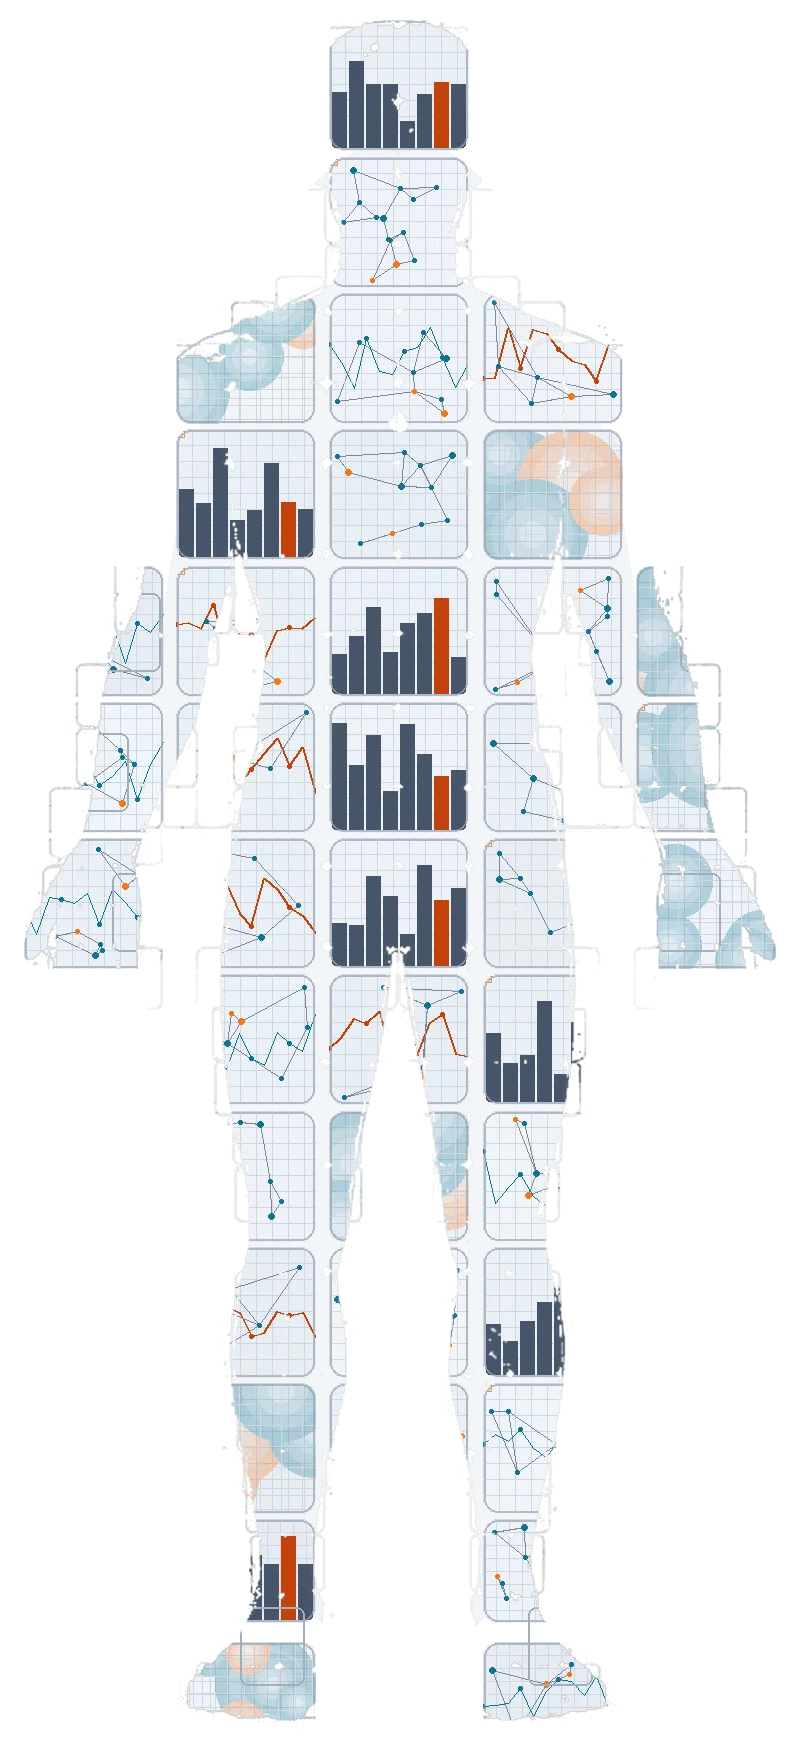
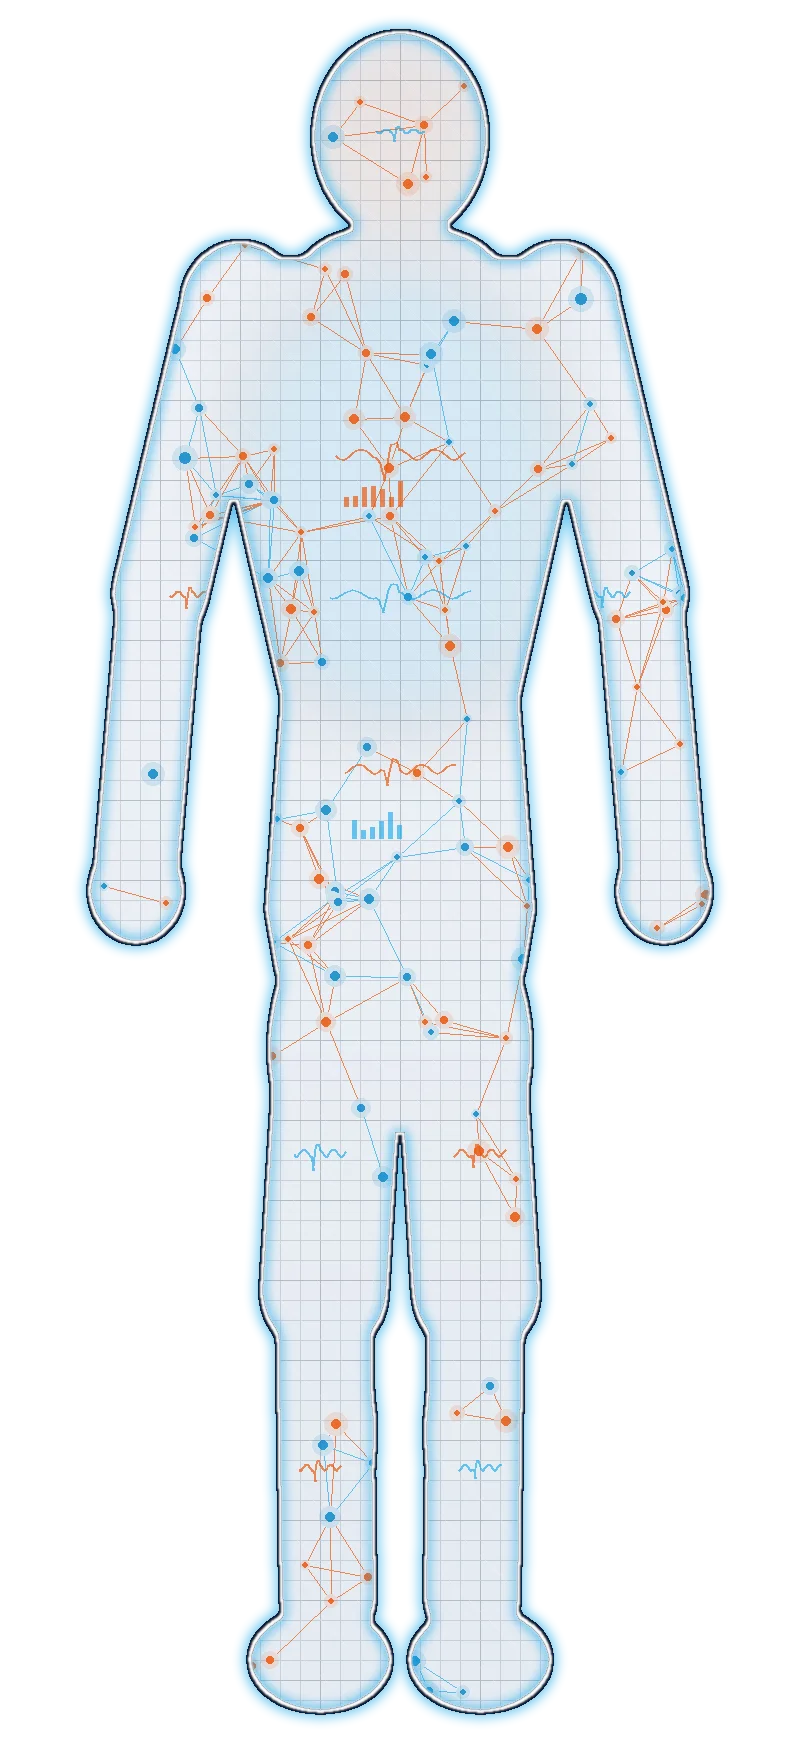
Make HDM figure a clear human body silhouette with data-viz fill.
Replace the tile-mosaic asset with an anatomical outline filled by grid/nodes/graphs, and shrink category cubes to translucent hotspots so the body reads at a glance.

Changed region(s): [[0.0312, 0.0, 0.9688, 0.9891]]

diff --git a/src/components/home/humanDataModel/HumanSilhouette.tsx b/src/components/home/humanDataModel/HumanSilhouette.tsx
@@ -38,8 +38,11 @@ function hexToRgba(hex: string, alpha: number): string {
   return `rgba(${r},${g},${b},${alpha})`;
 }
 
-/** +40% figure and category cubes vs previous layout. */
-const SCALE = 1.4;
+/**
+ * Hotspot size relative to the body-cube grid cell.
+ * Keep well below 1 so the WebP silhouette (head/torso/limbs) stays the readable figure.
+ */
+const SCALE = 0.72;
 
 /** Catalog order 01–10 left, 11–20 right. */
 const LEFT_IDS = [
@@ -196,7 +199,8 @@ function CategoryColumn({
 }
 
 /**
- * Sharp human + 20 category cubes, with colored text columns on both sides.
+ * Clear human-body silhouette (WebP) with math data-viz fill.
+ * Category cubes are translucent hotspots inside the contour — not the figure itself.
  */
 export default function HumanSilhouette({ dark, onSelectCategory }: Props) {
   const { t } = useTranslation();
@@ -254,6 +258,8 @@ export default function HumanSilhouette({ dark, onSelectCategory }: Props) {
 
       <div
         className="relative shrink-0"
+        role="img"
+        aria-label={t('home.modelTitle')}
         style={{
           height: 'min(90vh, 1232px)',
           aspectRatio: HUMAN_ASPECT,
@@ -274,21 +280,33 @@ export default function HumanSilhouette({ dark, onSelectCategory }: Props) {
 
         <img
           key={dark ? 'hdm-dark' : 'hdm-light'}
-          src={`${dark ? HUMAN_SRC_DARK : HUMAN_SRC_LIGHT}?v=11`}
-          srcSet={`${dark ? HUMAN_SRC_DARK_480 : HUMAN_SRC_LIGHT_480}?v=11 480w, ${dark ? HUMAN_SRC_DARK : HUMAN_SRC_LIGHT}?v=11 800w`}
+          src={`${dark ? HUMAN_SRC_DARK : HUMAN_SRC_LIGHT}?v=12`}
+          srcSet={`${dark ? HUMAN_SRC_DARK_480 : HUMAN_SRC_LIGHT_480}?v=12 480w, ${dark ? HUMAN_SRC_DARK : HUMAN_SRC_LIGHT}?v=12 800w`}
           sizes="(max-width: 640px) 48vw, min(52vw, 728px)"
-          alt="Human Data Model"
+          alt=""
           width={HUMAN_W}
           height={HUMAN_H}
           fetchPriority="high"
           decoding="async"
-          className="pointer-events-none absolute inset-0 z-10 h-full w-full object-fill select-none transition-[filter,opacity] duration-200 ease-out"
+          className="pointer-events-none absolute inset-0 z-10 h-full w-full object-contain select-none transition-[filter,opacity] duration-200 ease-out"
           style={{
             filter: dark
-              ? 'brightness(0.95) contrast(1.04)'
-              : 'brightness(1.02) contrast(1.03)',
+              ? 'brightness(1.02) contrast(1.06)'
+              : 'brightness(1.01) contrast(1.04)',
           }}
           draggable={false}
+          aria-hidden
+        />
+
+        {/* Subtle body wash so limbs stay readable under hotspots */}
+        <div
+          className="pointer-events-none absolute inset-0 z-[11]"
+          style={{
+            background: dark
+              ? 'radial-gradient(ellipse 42% 70% at 50% 42%, rgba(56,189,248,0.08), transparent 72%)'
+              : 'radial-gradient(ellipse 42% 70% at 50% 42%, rgba(14,165,233,0.06), transparent 72%)',
+          }}
+          aria-hidden
         />
 
         <div className="absolute inset-0 z-20" style={{ perspective: 900 }}>
@@ -296,6 +314,7 @@ export default function HumanSilhouette({ dark, onSelectCategory }: Props) {
             const hoverKey = cube.categoryId;
             const isHot = hovered === hoverKey;
             const critical = cube.categoryId === 'critical-health';
+            const dimOthers = Boolean(hovered && !isHot);
 
             return (
               <button
@@ -312,30 +331,31 @@ export default function HumanSilhouette({ dark, onSelectCategory }: Props) {
                   top: `${cube.top}%`,
                   width: `${sizeW}%`,
                   height: `${sizeH}%`,
-                  borderRadius: RADIUS * SCALE,
+                  borderRadius: Math.max(999, RADIUS * SCALE),
                   zIndex: isHot ? 50 : critical ? 28 : 24,
+                  opacity: dimOthers ? 0.22 : 1,
                   transform: isHot
-                    ? 'scale(1.22) translateZ(40px)'
+                    ? 'scale(1.35) translateZ(28px)'
                     : 'scale(1) translateZ(0)',
                   transition:
-                    'transform 220ms cubic-bezier(0.22, 1, 0.36, 1), box-shadow 220ms ease, background-color 220ms ease, border-color 220ms ease',
+                    'transform 220ms cubic-bezier(0.22, 1, 0.36, 1), box-shadow 220ms ease, background-color 220ms ease, border-color 220ms ease, opacity 180ms ease',
                   backgroundColor: isHot
-                    ? hexToRgba(cube.color, dark ? 0.42 : 0.4)
+                    ? hexToRgba(cube.color, dark ? 0.55 : 0.5)
                     : dark
-                      ? 'rgba(226,232,240,0.14)'
-                      : 'rgba(248,250,252,0.28)',
+                      ? 'rgba(226,232,240,0.06)'
+                      : 'rgba(15,23,42,0.05)',
                   border: isHot
-                    ? `2.5px solid ${cube.color}`
+                    ? `2px solid ${cube.color}`
                     : dark
-                      ? '2px solid rgba(226,232,240,0.42)'
-                      : '2px solid rgba(148,163,184,0.55)',
+                      ? '1.5px solid rgba(226,232,240,0.28)'
+                      : '1.5px solid rgba(71,85,105,0.32)',
                   boxShadow: isHot
-                    ? `0 16px 36px rgba(0,0,0,0.45), 0 0 24px ${cube.color}88`
+                    ? `0 12px 28px rgba(0,0,0,0.4), 0 0 20px ${cube.color}77`
                     : critical
-                      ? '0 0 0 1.5px rgba(255,255,255,0.55), 0 4px 14px rgba(0,0,0,0.2)'
-                      : dark
-                        ? '0 3px 10px rgba(0,0,0,0.25)'
-                        : '0 3px 10px rgba(15,23,42,0.1)',
+                      ? dark
+                        ? '0 0 0 1px rgba(248,250,252,0.35), 0 0 12px rgba(56,189,248,0.25)'
+                        : '0 0 0 1px rgba(15,23,42,0.2), 0 0 10px rgba(14,165,233,0.18)'
+                      : 'none',
                   cursor: 'pointer',
                 }}
                 aria-label={`${cube.name}, ${cube.serviceCount} services`}
@@ -347,22 +367,23 @@ export default function HumanSilhouette({ dark, onSelectCategory }: Props) {
                     color: isHot
                       ? '#F8FAFC'
                       : dark
-                        ? 'rgba(226,232,240,0.7)'
-                        : 'rgba(71,85,105,0.75)',
+                        ? 'rgba(226,232,240,0.55)'
+                        : 'rgba(51,65,85,0.55)',
                     textShadow: isHot ? '0 1px 8px rgba(0,0,0,0.55)' : undefined,
-                    transition: 'color 220ms ease',
+                    transition: 'color 220ms ease, opacity 180ms ease',
+                    opacity: isHot ? 1 : 0.75,
                   }}
                 >
-                  <span style={{ fontSize: isHot ? '1.25rem' : '1.05rem', lineHeight: 1 }}>
+                  <span style={{ fontSize: isHot ? '0.95rem' : '0.72rem', lineHeight: 1 }}>
                     {cube.serviceCount}
                   </span>
                   <span
                     style={{
-                      marginTop: 2,
-                      fontSize: '0.55rem',
+                      marginTop: 1,
+                      fontSize: '0.45rem',
                       letterSpacing: '0.06em',
                       textTransform: 'uppercase',
-                      opacity: isHot ? 0.95 : 0.65,
+                      opacity: isHot ? 0.95 : 0.5,
                     }}
                   >
                     svc

diff --git a/src/components/home/humanDataModel/bodyCubes.ts b/src/components/home/humanDataModel/bodyCubes.ts
@@ -1,4 +1,4 @@
-/** Large equal squares — L/R symmetric, full body cover. */
+/** Hotspot grid aligned to the anatomical WebP silhouette (head → feet). */
 export const COLS = 5;
 export const ROWS = 11;
 export const RADIUS = 18;
@@ -12,36 +12,47 @@ export interface BodyCube {
   sizeH: number;
 }
 
+/**
+ * Equal cells; L/R symmetric.
+ * Horizontal span matches the filled human contour (arms wider mid-body, legs inward).
+ */
 export const BODY_CUBES: BodyCube[] = [
-  { c: 2, r: 0, left: 41.342, top: 1.885, sizeW: 17.425, sizeH: 7.981 },
-  { c: 2, r: 1, left: 41.342, top: 10.655, sizeW: 17.425, sizeH: 7.981 },
-  { c: 1, r: 2, left: 22.194, top: 19.425, sizeW: 17.425, sizeH: 7.981 },
-  { c: 2, r: 2, left: 41.342, top: 19.425, sizeW: 17.425, sizeH: 7.981 },
-  { c: 3, r: 2, left: 60.491, top: 19.425, sizeW: 17.425, sizeH: 7.981 },
-  { c: 1, r: 3, left: 22.194, top: 28.195, sizeW: 17.425, sizeH: 7.981 },
-  { c: 2, r: 3, left: 41.342, top: 28.195, sizeW: 17.425, sizeH: 7.981 },
-  { c: 3, r: 3, left: 60.491, top: 28.195, sizeW: 17.425, sizeH: 7.981 },
-  { c: 0, r: 4, left: 3.045, top: 36.965, sizeW: 17.425, sizeH: 7.981 },
-  { c: 1, r: 4, left: 22.194, top: 36.965, sizeW: 17.425, sizeH: 7.981 },
-  { c: 2, r: 4, left: 41.342, top: 36.965, sizeW: 17.425, sizeH: 7.981 },
-  { c: 3, r: 4, left: 60.491, top: 36.965, sizeW: 17.425, sizeH: 7.981 },
-  { c: 4, r: 4, left: 79.639, top: 36.965, sizeW: 17.425, sizeH: 7.981 },
-  { c: 0, r: 5, left: 3.045, top: 45.735, sizeW: 17.425, sizeH: 7.981 },
-  { c: 1, r: 5, left: 22.194, top: 45.735, sizeW: 17.425, sizeH: 7.981 },
-  { c: 2, r: 5, left: 41.342, top: 45.735, sizeW: 17.425, sizeH: 7.981 },
-  { c: 3, r: 5, left: 60.491, top: 45.735, sizeW: 17.425, sizeH: 7.981 },
-  { c: 4, r: 5, left: 79.639, top: 45.735, sizeW: 17.425, sizeH: 7.981 },
-  { c: 1, r: 6, left: 22.194, top: 54.505, sizeW: 17.425, sizeH: 7.981 },
-  { c: 2, r: 6, left: 41.342, top: 54.505, sizeW: 17.425, sizeH: 7.981 },
-  { c: 3, r: 6, left: 60.491, top: 54.505, sizeW: 17.425, sizeH: 7.981 },
-  { c: 1, r: 7, left: 22.194, top: 63.275, sizeW: 17.425, sizeH: 7.981 },
-  { c: 2, r: 7, left: 41.342, top: 63.275, sizeW: 17.425, sizeH: 7.981 },
-  { c: 3, r: 7, left: 60.491, top: 63.275, sizeW: 17.425, sizeH: 7.981 },
-  { c: 1, r: 8, left: 22.194, top: 72.045, sizeW: 17.425, sizeH: 7.981 },
-  { c: 2, r: 8, left: 41.342, top: 72.045, sizeW: 17.425, sizeH: 7.981 },
-  { c: 3, r: 8, left: 60.491, top: 72.045, sizeW: 17.425, sizeH: 7.981 },
-  { c: 1, r: 9, left: 22.194, top: 80.815, sizeW: 17.425, sizeH: 7.981 },
-  { c: 3, r: 9, left: 60.491, top: 80.815, sizeW: 17.425, sizeH: 7.981 },
-  { c: 1, r: 10, left: 22.194, top: 89.585, sizeW: 17.425, sizeH: 7.981 },
-  { c: 3, r: 10, left: 60.491, top: 89.585, sizeW: 17.425, sizeH: 7.981 },
+  // Head / neck
+  { c: 2, r: 0, left: 42.2, top: 3.2, sizeW: 15.6, sizeH: 7.2 },
+  { c: 2, r: 1, left: 42.2, top: 11.0, sizeW: 15.6, sizeH: 7.2 },
+  // Shoulders / upper chest
+  { c: 1, r: 2, left: 28.6, top: 19.0, sizeW: 15.6, sizeH: 7.2 },
+  { c: 2, r: 2, left: 42.2, top: 19.0, sizeW: 15.6, sizeH: 7.2 },
+  { c: 3, r: 2, left: 55.8, top: 19.0, sizeW: 15.6, sizeH: 7.2 },
+  // Mid chest
+  { c: 1, r: 3, left: 28.6, top: 27.0, sizeW: 15.6, sizeH: 7.2 },
+  { c: 2, r: 3, left: 42.2, top: 27.0, sizeW: 15.6, sizeH: 7.2 },
+  { c: 3, r: 3, left: 55.8, top: 27.0, sizeW: 15.6, sizeH: 7.2 },
+  // Arms + torso
+  { c: 0, r: 4, left: 14.8, top: 35.2, sizeW: 15.6, sizeH: 7.2 },
+  { c: 1, r: 4, left: 28.6, top: 35.2, sizeW: 15.6, sizeH: 7.2 },
+  { c: 2, r: 4, left: 42.2, top: 35.2, sizeW: 15.6, sizeH: 7.2 },
+  { c: 3, r: 4, left: 55.8, top: 35.2, sizeW: 15.6, sizeH: 7.2 },
+  { c: 4, r: 4, left: 69.6, top: 35.2, sizeW: 15.6, sizeH: 7.2 },
+  { c: 0, r: 5, left: 13.2, top: 43.5, sizeW: 15.6, sizeH: 7.2 },
+  { c: 1, r: 5, left: 28.6, top: 43.5, sizeW: 15.6, sizeH: 7.2 },
+  { c: 2, r: 5, left: 42.2, top: 43.5, sizeW: 15.6, sizeH: 7.2 },
+  { c: 3, r: 5, left: 55.8, top: 43.5, sizeW: 15.6, sizeH: 7.2 },
+  { c: 4, r: 5, left: 71.2, top: 43.5, sizeW: 15.6, sizeH: 7.2 },
+  // Waist / pelvis
+  { c: 1, r: 6, left: 30.2, top: 52.0, sizeW: 15.6, sizeH: 7.2 },
+  { c: 2, r: 6, left: 42.2, top: 52.0, sizeW: 15.6, sizeH: 7.2 },
+  { c: 3, r: 6, left: 54.2, top: 52.0, sizeW: 15.6, sizeH: 7.2 },
+  // Thighs
+  { c: 1, r: 7, left: 31.4, top: 60.5, sizeW: 15.6, sizeH: 7.2 },
+  { c: 2, r: 7, left: 42.2, top: 60.5, sizeW: 15.6, sizeH: 7.2 },
+  { c: 3, r: 7, left: 53.0, top: 60.5, sizeW: 15.6, sizeH: 7.2 },
+  { c: 1, r: 8, left: 32.0, top: 69.0, sizeW: 15.6, sizeH: 7.2 },
+  { c: 2, r: 8, left: 42.2, top: 69.0, sizeW: 15.6, sizeH: 7.2 },
+  { c: 3, r: 8, left: 52.4, top: 69.0, sizeW: 15.6, sizeH: 7.2 },
+  // Lower legs / feet
+  { c: 1, r: 9, left: 32.6, top: 78.0, sizeW: 15.6, sizeH: 7.2 },
+  { c: 3, r: 9, left: 51.8, top: 78.0, sizeW: 15.6, sizeH: 7.2 },
+  { c: 1, r: 10, left: 33.0, top: 87.0, sizeW: 15.6, sizeH: 7.2 },
+  { c: 3, r: 10, left: 51.4, top: 87.0, sizeW: 15.6, sizeH: 7.2 },
 ];

diff --git a/src/components/home/humanDataModel/humanAsset.ts b/src/components/home/humanDataModel/humanAsset.ts
@@ -1,6 +1,6 @@
-/** Data-viz mosaic silhouette (slate grid / nodes / sparklines) — WebP with alpha (LCP). */
+/** Human body silhouette filled with math data-viz (grid / nodes / sparklines) — WebP + alpha (LCP). */
 export const HUMAN_SRC_DARK = '/hdm-human.webp';
-/** Light-canvas variant of the same math-driven figure. */
+/** Light-canvas variant of the same anatomical figure. */
 export const HUMAN_SRC_LIGHT = '/hdm-human-light.webp';
 
 /** Narrower src for phones / small viewports (srcset). */
